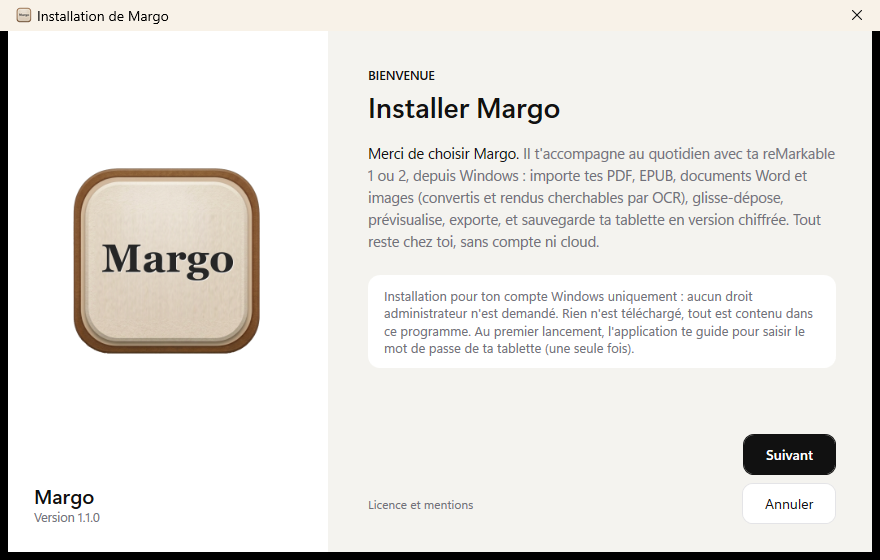
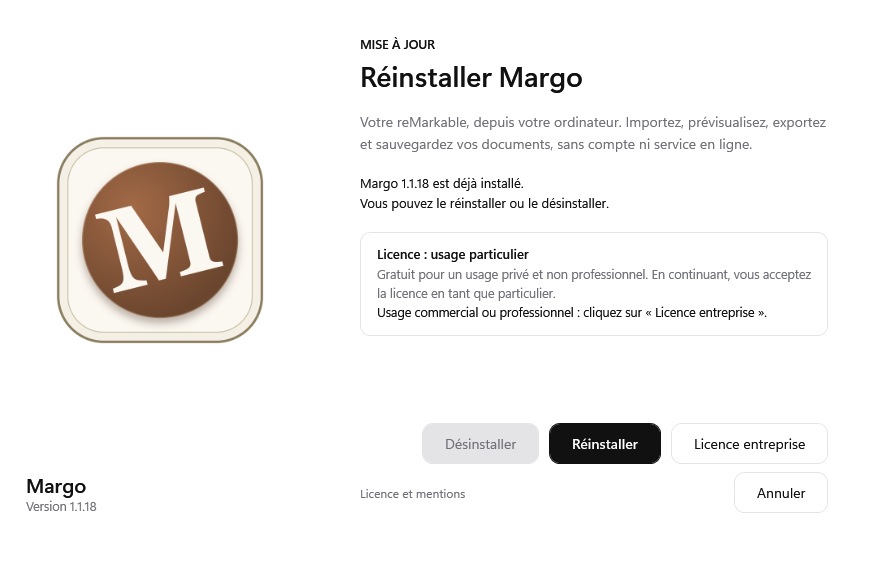
Captures et installation mises a jour (installeur 1.1.18, menu Aide, Contactez-nous)

diff --git a/README.md b/README.md
@@ -20,17 +20,25 @@ Projet indépendant, ni affilié, ni approuvé, ni sponsorisé par reMarkable AS
 Captures réalisées avec des noms de dossiers et de livres d'exemple.</em></p>
 
 <p align="center">
-  <img src="captures/00-installeur.png" alt="Assistant d'installation de Margo : écran de bienvenue" width="560">
+  <img src="captures/00-installeur.png" alt="Assistant d'installation de Margo : détection de l'installation existante, déclaration d'usage particulier" width="560">
 </p>
 
-<p align="center"><em>L'assistant d'installation, sans droit administrateur.</em></p>
+<p align="center"><em>L'assistant d'installation, sans droit administrateur : il reconnaît une installation existante<br>
+(y compris l'ancienne rM Desktop) et propose de la mettre à jour.</em></p>
 
 <p align="center">
-  <img src="captures/01-chargement.png" alt="Écran de chargement de Margo" width="330">
-  <img src="captures/02-detection.png" alt="La reMarkable 2 est détectée au démarrage" width="330">
+  <img src="captures/01-installation.png" alt="Copie des fichiers avec une astuce" width="330">
+  <img src="captures/02-installation-terminee.png" alt="Installation terminée" width="330">
 </p>
 
-<p align="center"><em>Au démarrage : chargement, puis détection de la tablette branchée en USB.</em></p>
+<p align="center"><em>Pendant la copie, quelques astuces défilent ; puis Margo se lance.</em></p>
+
+<p align="center">
+  <img src="captures/06-guide-demarrage.png" alt="Guide de démarrage de Margo : brancher, connecter une fois, importer, sauvegarder" width="420">
+  <img src="captures/07-contactez-nous.png" alt="Aide, Contactez-nous : bogue, avis ou question, tout est facultatif" width="420">
+</p>
+
+<p align="center"><em>Le menu Aide : guide de démarrage et « Contactez-nous ». Rien ne part sans votre clic sur Envoyer.</em></p>
 
 <p align="center">
   <img src="captures/04-mode-veille.png" alt="Mode veille de Margo : une tablette avec un petit cœur et le message « Je fais une petite pause »" width="760">
@@ -72,6 +80,9 @@ La fenêtre se réactive toute seule dès que le câble est rebranché.</em></p>
 
 1. Téléchargez `install_margo.exe` dans la [dernière version](https://github.com/Gitnmercury/Margo-apps/releases/latest).
 2. Lancez-le et suivez l'assistant. Aucun droit administrateur n'est demandé, rien n'est téléchargé.
+   Il vous demande de confirmer l'usage particulier (gratuit, à titre privé) ; pour un usage professionnel,
+   le bouton « Licence entreprise » indique comment demander une licence.
+3. Au premier lancement, branchez la tablette en USB et saisissez son mot de passe (une seule fois).
 
 Windows peut afficher « Windows a protégé votre ordinateur » : l'installeur est signé avec un
 certificat personnel de l'auteur, que Windows ne connaît pas encore. Cliquez sur « Informations
